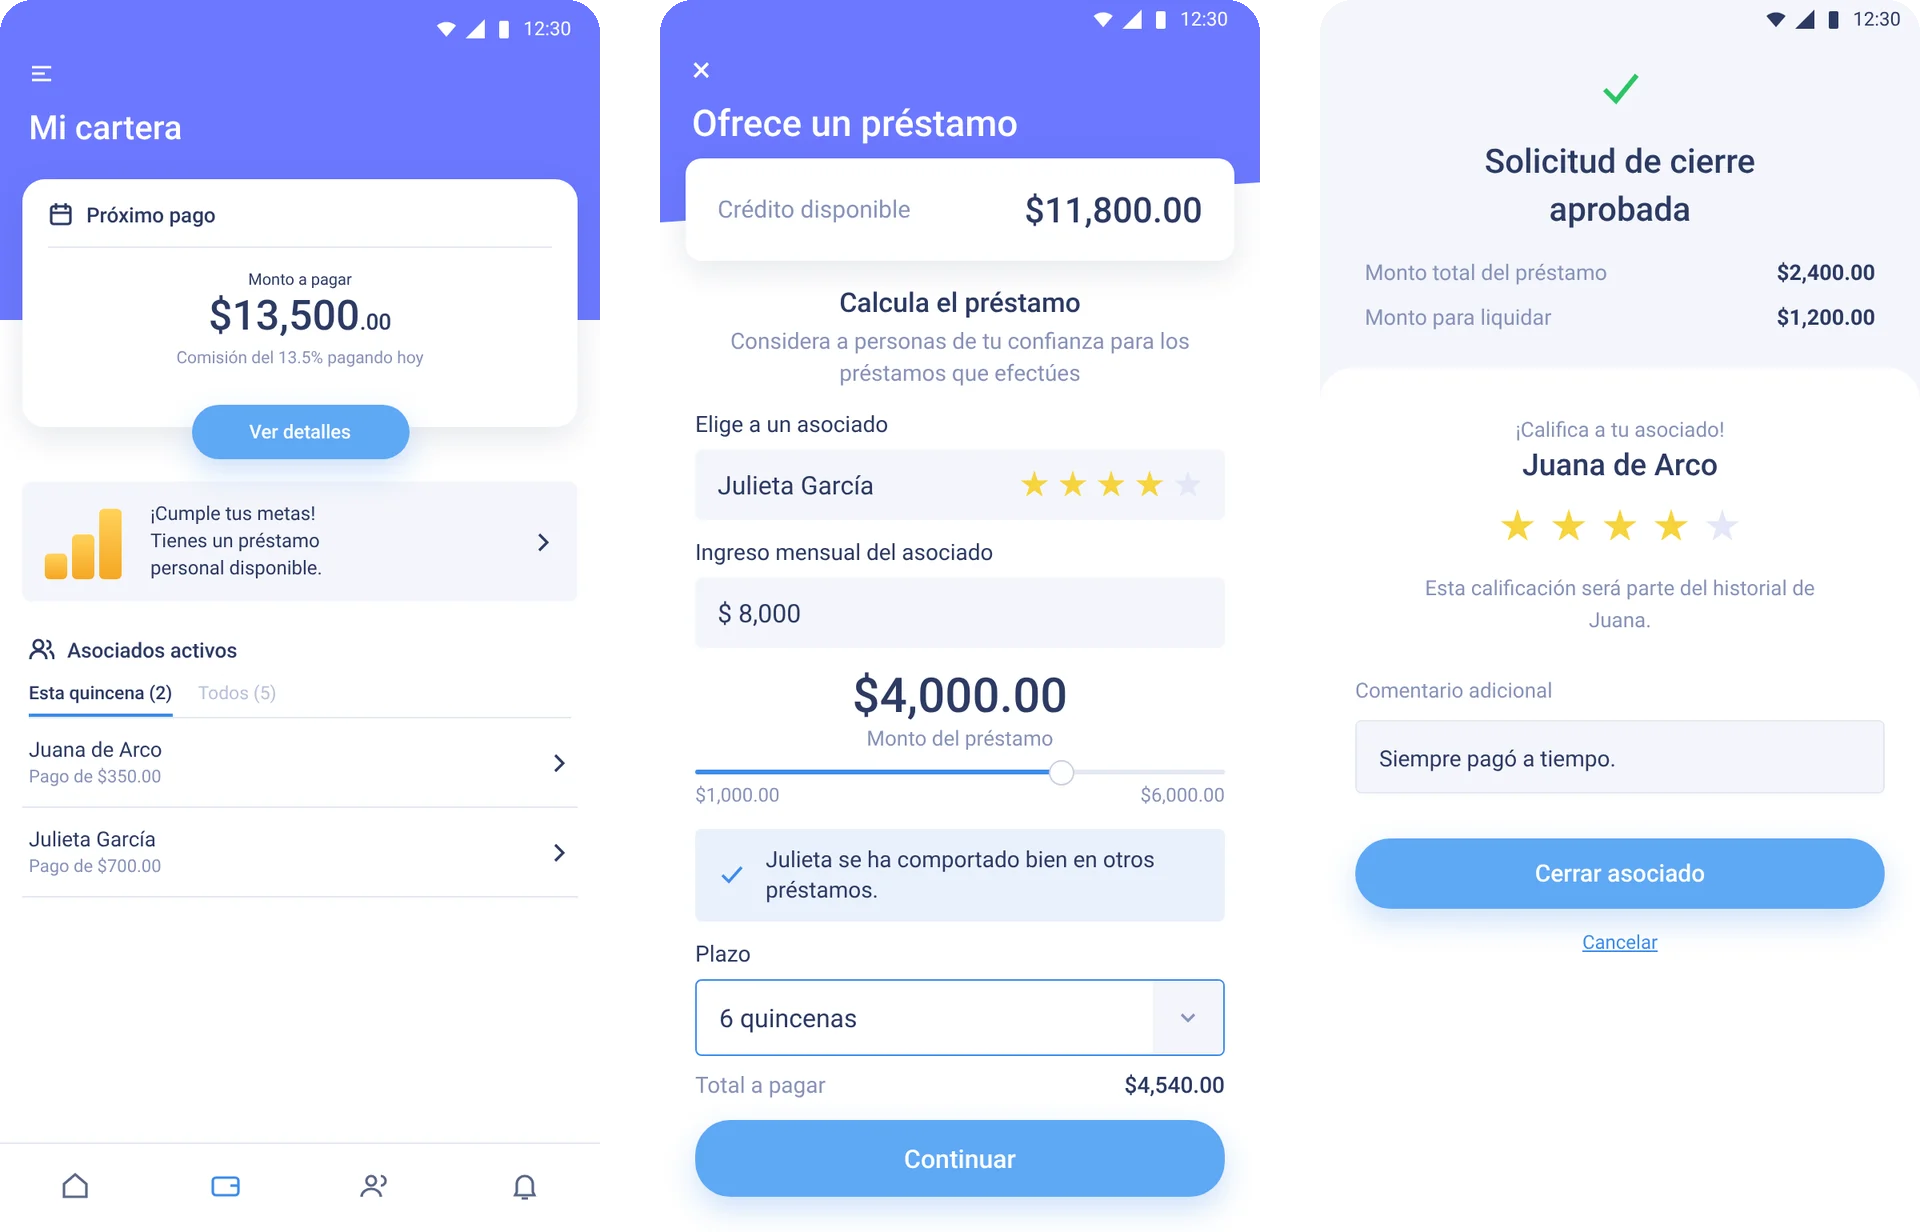
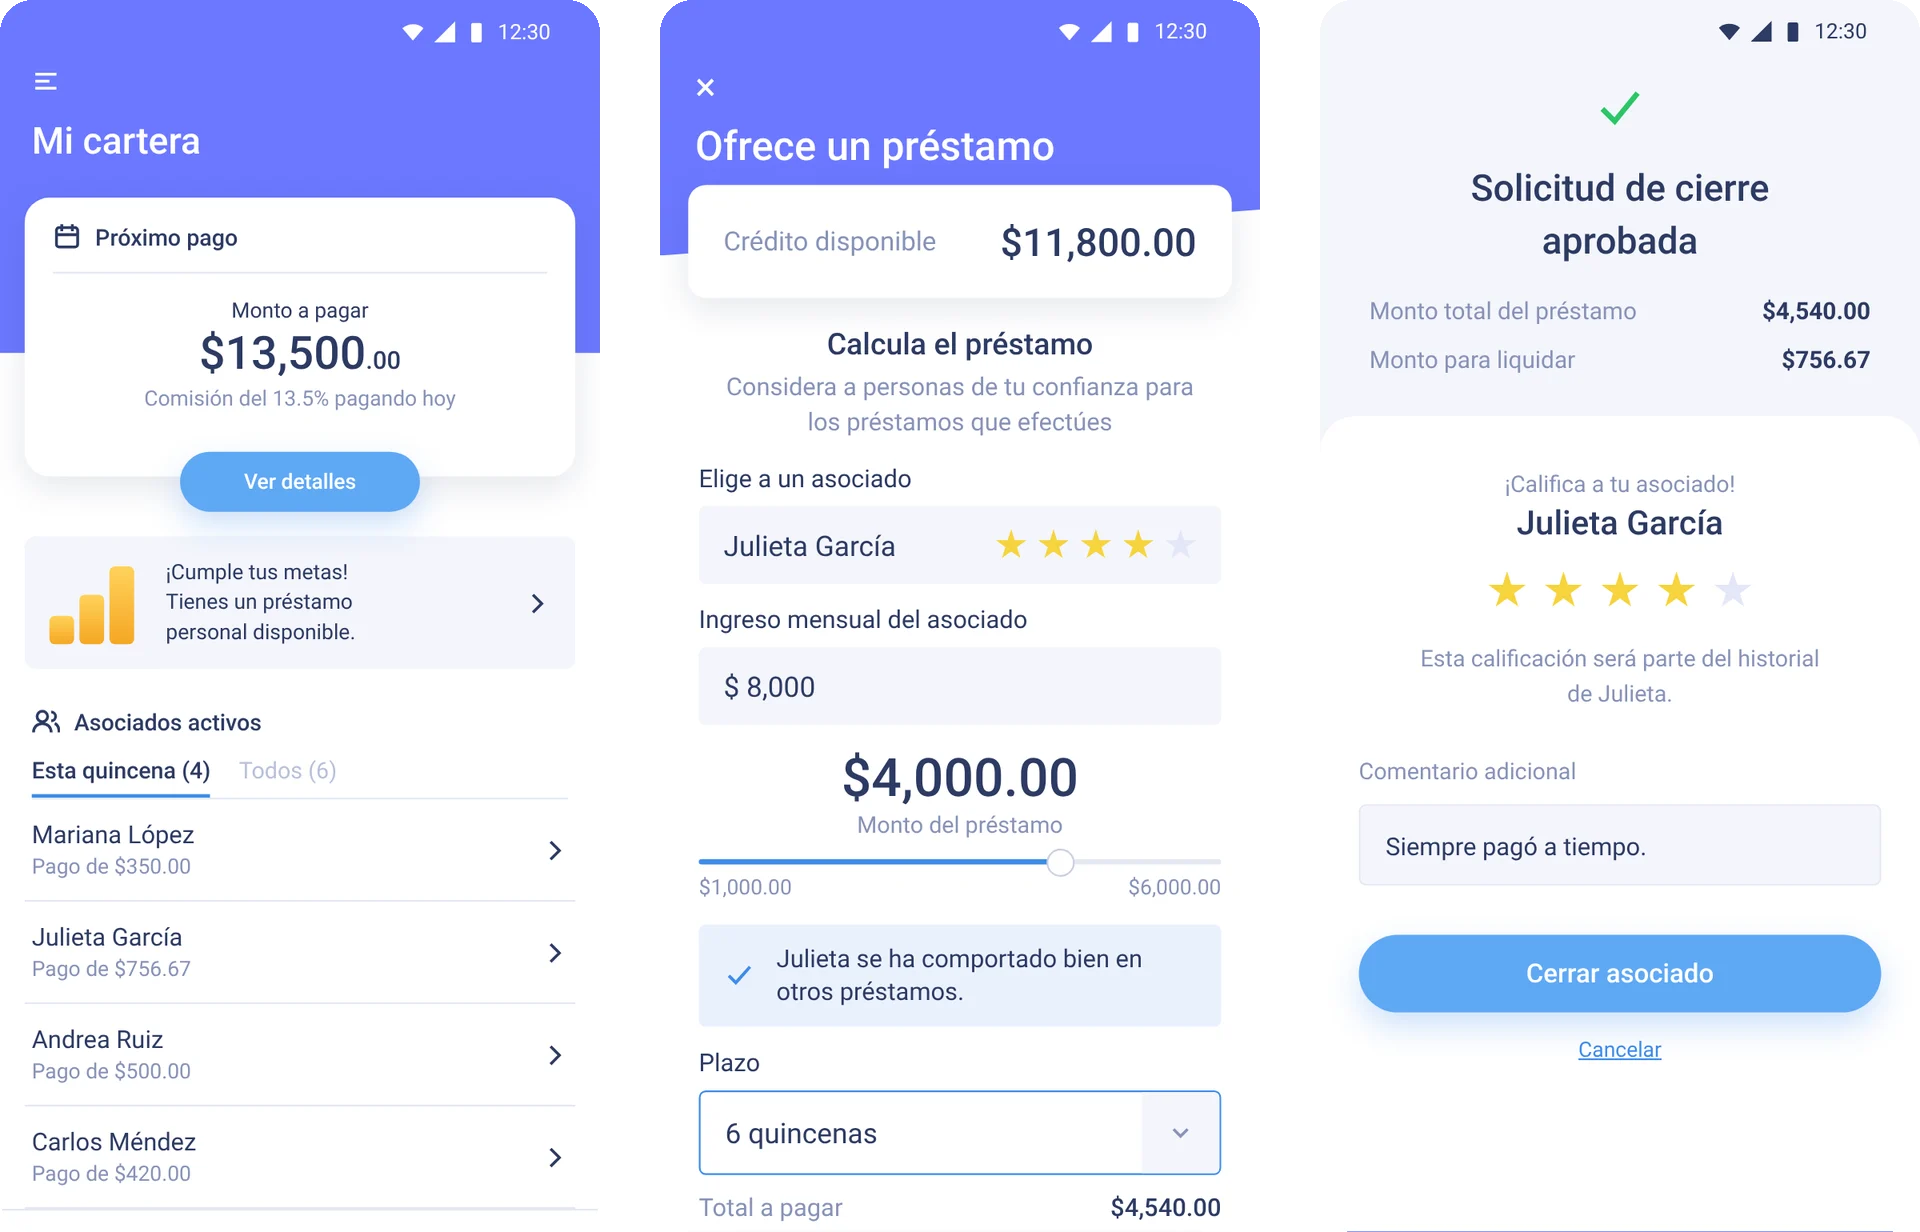
Volana screens: larger type, status bar clear of the bezel, Julieta García in offer and close, Mariana López instead of Juana, four associates in the circle, lock screen filled
Claude-Session: https://claude.ai/code/session_014oW9rryPzLSdmVNbG2KxAd

diff --git a/case-studies/volana/index.html b/case-studies/volana/index.html
@@ -213,20 +213,20 @@
             </div>
             <div class="vo-roles__view" data-role="lender">
             <div class="vo-phone">
-              <img class="vo-phone__status" src="img/wallet-status.webp" width="750" height="48" alt="">
+              <img class="vo-phone__status" src="img/wallet-status.webp" width="750" height="66" alt="">
               <div class="vo-phone__screen" tabindex="0" role="region" aria-label="Mi cartera (scrollable screen)">
-                <img src="img/wallet.webp" width="750" height="1186" alt="Lender, “Mi cartera”: the next payment of $13,500.00, a personal loan offer, and the associates who pay this fortnight, Juana de Arco ($350.00) and Julieta García ($700.00).">
+                <img src="img/wallet.webp" width="750" height="1568" alt="Lender, “Mi cartera”: the next payment of $13,500.00, a personal loan offer, and the four associates who pay this fortnight: Mariana López ($350.00), Julieta García ($756.67), Andrea Ruiz ($500.00) and Carlos Méndez ($420.00).">
               </div>
-              <img class="vo-phone__bar" src="img/wallet-bar.webp" width="750" height="112" alt="">
+              <img class="vo-phone__bar" src="img/wallet-bar.webp" width="750" height="124" alt="">
             </div>
             </div>
             <div class="vo-roles__view" data-role="associate">
             <div class="vo-phone">
-              <img class="vo-phone__status" src="img/pay-status.webp" width="750" height="48" alt="">
-              <div class="vo-phone__screen" tabindex="0" role="region" aria-label="Hola, Juana (scrollable screen)">
-                <img src="img/pay.webp" width="750" height="1188" alt="Associate, “Hola, Juana”: next payment of $350.00 due Friday, November 15, payment 2 of 6, lent by María Hernández, with cash at OXXO selected and a payment reference with a barcode.">
+              <img class="vo-phone__status" src="img/pay-status.webp" width="750" height="66" alt="">
+              <div class="vo-phone__screen" tabindex="0" role="region" aria-label="Hola, Mariana (scrollable screen)">
+                <img src="img/pay.webp" width="750" height="1313" alt="Associate, “Hola, Mariana”: next payment of $350.00 due Friday, November 15, payment 2 of 6, lent by María Hernández, with cash at OXXO selected and a payment reference with a barcode.">
               </div>
-              <img class="vo-phone__bar" src="img/pay-bar.webp" width="750" height="112" alt="">
+              <img class="vo-phone__bar" src="img/pay-bar.webp" width="750" height="124" alt="">
             </div>
             </div>
           </figure>
@@ -249,18 +249,18 @@
             </div>
             <div class="vo-roles__view" data-role="offer">
             <div class="vo-phone">
-              <img class="vo-phone__status" src="img/offer-status.webp" width="750" height="48" alt="">
+              <img class="vo-phone__status" src="img/offer-status.webp" width="750" height="66" alt="">
               <div class="vo-phone__screen" tabindex="0" role="region" aria-label="Ofrece un préstamo (scrollable screen)">
-                <img src="img/offer.webp" width="750" height="1576" alt="“Ofrece un préstamo”: $11,800.00 of available credit, the associate Julieta García chosen with a four-star rating, a $4,000.00 loan on a slider, the note “Julieta se ha comportado bien en otros préstamos”, and a term of 6 quincenas.">
+                <img src="img/offer.webp" width="750" height="1716" alt="“Ofrece un préstamo”: $11,800.00 of available credit, the associate Julieta García chosen with a four-star rating, a $4,000.00 loan on a slider, the note “Julieta se ha comportado bien en otros préstamos”, and a term of 6 quincenas.">
               </div>
               <div class="vo-phone__cta" aria-hidden="true"><span class="vo-phone__btn">Continuar</span></div>
             </div>
             </div>
             <div class="vo-roles__view" data-role="close">
             <div class="vo-phone">
-              <img class="vo-phone__status" src="img/rate-status.webp" width="750" height="48" alt="">
+              <img class="vo-phone__status" src="img/rate-status.webp" width="750" height="66" alt="">
               <div class="vo-phone__screen" tabindex="0" role="region" aria-label="Califica a tu asociado (scrollable screen)">
-                <img src="img/rate.webp" width="750" height="1216" alt="“Solicitud de cierre aprobada”: a $2,400.00 loan with $1,200.00 to settle, and a card to rate the associate Juana de Arco with four stars and the comment “Siempre pagó a tiempo”.">
+                <img src="img/rate.webp" width="750" height="1315" alt="“Solicitud de cierre aprobada”: a $4,540.00 loan with $756.67 to settle, and a card to rate the associate Julieta García with four stars and the comment “Siempre pagó a tiempo”.">
               </div>
               <div class="vo-phone__cta" aria-hidden="true"><span class="vo-phone__btn">Cerrar asociado</span><span class="vo-phone__link">Cancelar</span></div>
             </div>
@@ -279,9 +279,9 @@
           </div>
           <figure class="cs-decision__media cs-decision__media--phone">
             <div class="vo-phone">
-              <img class="vo-phone__status" src="img/notify-status.webp" width="750" height="48" alt="">
-              <div class="vo-phone__screen" tabindex="0" role="region" aria-label="Lock screen notifications (scrollable screen)">
-                <img src="img/notify.webp" width="750" height="1352" alt="Lock screen with two Volana notifications: “Tu pago vence mañana: paga $350.00 antes del viernes. En OXXO usa tu referencia 9301 4472 0815 36”, and an older one, “Pago recibido: tu pago 1 de 6 por $350.00 quedó registrado. ¡Gracias por pagar a tiempo!”">
+              <img class="vo-phone__status" src="img/notify-status.webp" width="750" height="66" alt="">
+              <div class="vo-phone__screen" tabindex="0" role="region" aria-label="Lock screen notifications (scrollable screen)" style="background: #8F9BFF">
+                <img src="img/notify.webp" width="750" height="1434" alt="Lock screen with two Volana notifications: “Tu pago vence mañana: paga $350.00 antes del viernes. En OXXO usa tu referencia 9301 4472 0815 36”, and an older one, “Pago recibido: tu pago 1 de 6 por $350.00 quedó registrado. ¡Gracias por pagar a tiempo!”">
               </div>
             </div>
           </figure>
@@ -299,9 +299,9 @@
           </div>
           <figure class="cs-decision__media cs-decision__media--phone">
             <div class="vo-phone">
-              <img class="vo-phone__status" src="img/verify-status.webp" width="750" height="48" alt="">
+              <img class="vo-phone__status" src="img/verify-status.webp" width="750" height="66" alt="">
               <div class="vo-phone__screen" tabindex="0" role="region" aria-label="Verifica tu identidad (scrollable screen)">
-                <img src="img/verify.webp" width="750" height="1306" alt="Sign-up, “Verifica tu identidad”: step 2 of 3, the INE photo done, a selfie next, “Verificación segura con Veriff” and a “Tomar selfie” button.">
+                <img src="img/verify.webp" width="750" height="1418" alt="Sign-up, “Verifica tu identidad”: step 2 of 3, the INE photo done, a selfie next, “Verificación segura con Veriff” and a “Tomar selfie” button.">
               </div>
               <div class="vo-phone__cta" aria-hidden="true"><span class="vo-phone__btn">Tomar selfie</span></div>
             </div>

diff --git a/case-studies/volana/volana.css b/case-studies/volana/volana.css
@@ -79,10 +79,10 @@
 .vo-phone__btn {
   width: 100%; height: 12.8cqw; border-radius: 6.4cqw; background: #2B73D6; color: #fff;
   display: flex; align-items: center; justify-content: center;
-  font-family: Roboto, Inter, sans-serif; font-weight: 500; font-size: 4.27cqw;
+  font-family: Roboto, Inter, sans-serif; font-weight: 500; font-size: 4.7cqw;
   box-shadow: 0 2cqw 5cqw rgba(43, 115, 214, .3);
 }
-.vo-phone__link { font-size: 3.2cqw; color: #2563C9; text-decoration: underline; }
+.vo-phone__link { font-size: 3.6cqw; color: #2563C9; text-decoration: underline; }
 .vo-phone.is-scrolling .vo-phone__cta { transform: translateY(calc(100% + 10.7cqw)); opacity: 0; }
 
 /* Process: three steps with a photo each, then the workshop whiteboard across the column */
